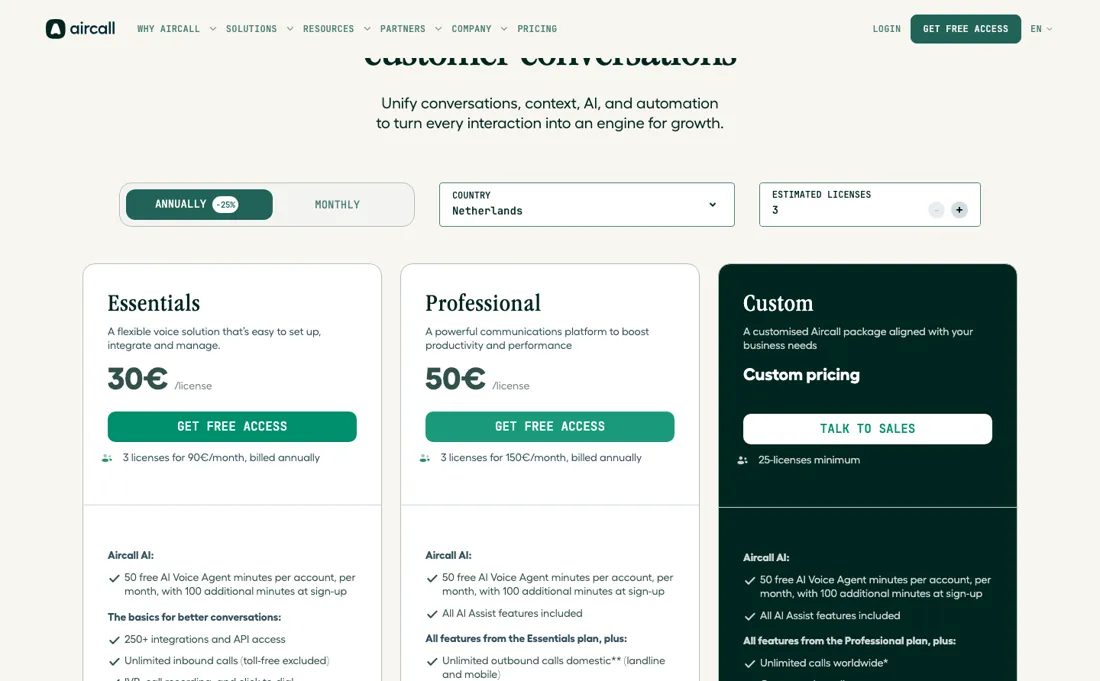
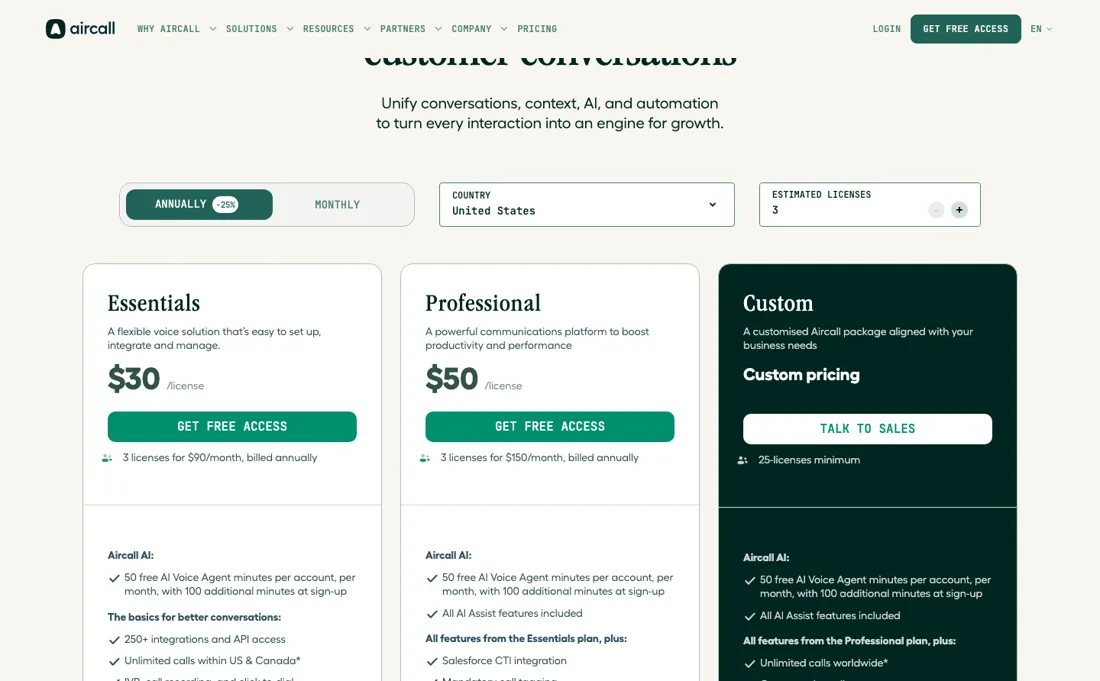
Aircall: prijsafdruk opnieuw gevangen vanuit de VS, plus de maandtarieven
De afdruk stond in euro's naast een dollartekst — precies de fout waar UENI
ons op aansprak. Opnieuw gevangen via een Amerikaanse uitgang (New York),
met Aircalls eigen landkeuze op United States: nu 14 dollarbedragen, 0 euro.

En de maandtarieven staan er nu bij, gelezen met de schakelaar om: $40 en $70
per licentie. Dat was niet af te leiden — 25% korting op $50 zou $66,67 geven,
maar Aircall vraagt $70, dus de korting is op Professional eerder 29%.
price_machine staat weer op een gelezen waarde (USD 40, maandelijks).

diff --git a/b2b/aircall-review/index.html b/b2b/aircall-review/index.html
@@ -13,7 +13,7 @@
 <link rel="icon" href="/favicon.svg" type="image/svg+xml">
 <link href="https://fonts.googleapis.com/css2?family=Inter:wght@400;500;600;700;800;900&display=swap" rel="stylesheet">
 <script type="application/ld+json">{"@context": "https://schema.org", "@type": "Article", "headline": "Aircall Review (2026): From $30/mo, Checked Aug 2026", "datePublished": "2026-06-30", "dateModified": "2026-08-29", "author": {"@type": "Person", "@id": "https://aibuildermarketplace.com/about/#daan", "name": "Daniel Haket"}, "publisher": {"@type": "Organization", "name": "AIBuilder Marketplace"}}</script>
-<script type="application/ld+json">{"@context": "https://schema.org", "@type": "SoftwareApplication", "name": "Aircall", "applicationCategory": "Communication & Voice", "operatingSystem": "Web", "description": "Cloud phone system for sales and support teams: call routing, analytics and CRM integrations. A three-licence minimum applies, so entry is effectively about $90/month; Essentials is roughly $30/user/month annual against $40 month-to-month.", "url": "https://aibuildermarketplace.com/b2b/aircall-review/", "sameAs": "https://aircall.io", "review": {"@type": "Review", "url": "https://aibuildermarketplace.com/b2b/aircall-review/", "author": {"@type": "Person", "name": "Daniel Haket", "@id": "https://aibuildermarketplace.com/about/#daan"}, "publisher": {"@type": "Organization", "name": "AIBuilder Marketplace"}}}</script>
+<script type="application/ld+json">{"@context": "https://schema.org", "@type": "SoftwareApplication", "name": "Aircall", "applicationCategory": "Communication & Voice", "operatingSystem": "Web", "description": "Cloud phone system for sales and support teams: call routing, analytics and CRM integrations. A three-licence minimum applies, so entry is effectively about $90/month; Essentials is roughly $30/user/month annual against $40 month-to-month.", "url": "https://aibuildermarketplace.com/b2b/aircall-review/", "sameAs": "https://aircall.io", "review": {"@type": "Review", "url": "https://aibuildermarketplace.com/b2b/aircall-review/", "author": {"@type": "Person", "name": "Daniel Haket", "@id": "https://aibuildermarketplace.com/about/#daan"}, "publisher": {"@type": "Organization", "name": "AIBuilder Marketplace"}}, "offers": {"@type": "Offer", "price": 40, "priceCurrency": "USD", "url": "https://aibuildermarketplace.com/b2b/aircall-review/", "description": "Essentials, per licence, billed monthly — $30 per licence is the annual rate. Read on the vendor's own pricing page on 2026-08-29."}}</script>
 <script type="application/ld+json">{"@context": "https://schema.org", "@type": "FAQPage", "mainEntity": [{"@type": "Question", "name": "What is the real entry price for Aircall?", "acceptedAnswer": {"@type": "Answer", "text": "Not the per-licence figure. Aircall requires three licences, so Essentials starts at €90 a month billed annually (€120 monthly) and Professional at €150 (€210 monthly), read on their own pricing page on 17 August 2026 from an EU address. A two-person team pays for three seats."}}, {"@type": "Question", "name": "Is there an Aircall discount code?", "acceptedAnswer": {"@type": "Answer", "text": "We have found none, and that is worth saying because it is one of the things people search for before buying. What the page does publish is the annual discount — €30 against €40 per licence on Essentials, €50 against €70 on Professional — which is a 25% to 29% saving for committing to a year. That, plus the 50 free AI Voice Agent minutes every account gets each month, is the whole of the public offer as we read it."}}, {"@type": "Question", "name": "What do the AI voice agents cost on top?", "acceptedAnswer": {"@type": "Answer", "text": "They are a separate meter from the seat. Every account gets 50 AI Voice Agent minutes a month free, with 100 extra at sign-up; after that it is €175 for 500 minutes or €725 for 2,500, custom bundles from €0.19 a minute above 10,000 minutes, or pay-as-you-go at €0.49 a minute (€0.39 over 2,500). Read on 17 August 2026. Budget these alongside the licences rather than assuming they are included."}}, {"@type": "Question", "name": "What should I weigh before buying Communication & Voice software?", "acceptedAnswer": {"@type": "Answer", "text": "Generally yes, since this category is built for it, but the details that bite are timezone handling, how per-seat cost scales as the team spreads, and whether numbers, routing or coverage exist in the countries your people actually sit in. Availability varies far more by country than the marketing pages suggest, so check your specific regions before committing."}}, {"@type": "Question", "name": "Is this a hands-on review of Aircall?", "acceptedAnswer": {"@type": "Answer", "text": "This is a researched assessment, not a hands-on test — where we've used a tool ourselves, we say so explicitly. We name what each tool is genuinely good and bad at, and we earn a commission only if you sign up, at no cost to you."}}]}</script>
 <script type="application/ld+json">{"@context": "https://schema.org", "@type": "BreadcrumbList", "itemListElement": [{"@type": "ListItem", "position": 1, "name": "Home", "item": "https://aibuildermarketplace.com"}, {"@type": "ListItem", "position": 2, "name": "Reviews", "item": "https://aibuildermarketplace.com/b2b/"}, {"@type": "ListItem", "position": 3, "name": "Aircall Review", "item": "https://aibuildermarketplace.com/b2b/aircall-review/"}]}</script><script type="application/ld+json">{"@context": "https://schema.org", "@type": "VideoObject", "name": "Aircall Review (2026) \u2014 honest pricing & who should skip it", "description": "Aircall: Essentials is $30 per license a month and Professional $50, both on annual billing. 'Unlimited calling' covers listed regions \u2014 check yours.", "thumbnailUrl": "https://i.ytimg.com/vi/RGbopX-3P2Q/hqdefault.jpg", "uploadDate": "2026-07-12T00:00:00+00:00", "contentUrl": "https://www.youtube.com/watch?v=RGbopX-3P2Q", "embedUrl": "https://www.youtube-nocookie.com/embed/RGbopX-3P2Q"}</script>
 <style>
@@ -90,7 +90,7 @@ h1{font-size:1.5rem}
 
 <h2 id="watch-the-2-minute-review">Watch the 2-minute review</h2><div style="position:relative;padding-top:56.25%;border-radius:14px;overflow:hidden;border:1px solid var(--border);margin:18px 0"><iframe src="https://www.youtube-nocookie.com/embed/RGbopX-3P2Q" title="Aircall review video" loading="lazy" style="position:absolute;inset:0;width:100%;height:100%;border:0" allow="accelerometer;encrypted-media;picture-in-picture" allowfullscreen></iframe></div><p style="font-size:.85rem;color:var(--muted)">Same honest take, in video form — from our <a href="https://www.youtube.com/@AIBuilderMarketplace" target="_blank" rel="noopener">YouTube channel</a>.</p><p style="font-size:.9rem;color:var(--muted);margin-top:10px">&#9889; Short on time? <a href="https://www.youtube.com/shorts/cU3WIZmuOxw" target="_blank" rel="noopener">Watch the 30-second verdict Short</a>.</p>
 <nav class="toc" aria-label="On this page" style="border:1px solid var(--border);border-radius:12px;padding:14px 18px;margin:20px 0;background:var(--card)"><div style="font-size:.72rem;letter-spacing:.09em;text-transform:uppercase;color:var(--muted);font-weight:800;margin-bottom:8px">On this page</div><ul style="margin:0;padding-left:19px;line-height:1.75;font-size:.92rem"><li><a href="#watch-the-2-minute-review">Watch the 2-minute review</a></li><li><a href="#pricing-2026">Pricing (2026)</a></li><li><a href="#what-the-pricing-page-doesn-t-say">What the pricing page doesn’t say</a></li><li><a href="#what-aircall-does">What Aircall does</a></li><li><a href="#what-buyers-report-about-aircall">What buyers report about Aircall</a></li><li><a href="#when-the-paid-plan-is-worth-it">When the paid plan is worth it</a></li><li><a href="#how-to-actually-use-aircall">How to actually use Aircall</a></li><li><a href="#common-aircall-setup-mistakes">Common Aircall setup mistakes</a></li><li><a href="#aircall-vs-cloudtalk-side-by-side">Aircall vs CloudTalk, side by side</a></li><li><a href="#frequently-asked-questions">Frequently asked questions</a></li></ul></nav>
-<h2 id="pricing-2026">Pricing (2026)</h2><p style="margin:-4px 0 12px"><span style="display:inline-block;font-size:.72rem;letter-spacing:.06em;text-transform:uppercase;font-weight:800;color:#22c55e;border:1px solid rgba(34,197,94,.4);background:rgba(34,197,94,.08);border-radius:999px;padding:3px 11px">&#10003; Pricing re-verified 26 Aug 2026</span></p><p>Essentials is $30 per license a month and Professional $50, both on annual billing, which the page marks as 25% off monthly; the same cards quote 3 licenses at $90 and $150 a month. Custom starts at 25 licenses. Aircall AI is not in those numbers: voice runs from $0.19 a minute with bundles at $175 for 500 minutes and $725 for 2,500, or $0.49 a minute pay-as-you-go dropping to $0.39 above 2,500.</p><p>AI conversations are $0.35 each, $0.29 after the first thousand, or bundled at $250 for 1,000 and $1,500 for 10,000. Smaller add-ons sit at $9, $10, $15, $30 and $49 per license a month, so the license fee is a floor rather than the bill. <em>Plans change — always verify the live price on their site.</em></p><p style="border-left:3px solid #f59e0b;padding-left:10px"><b>Correction after re-checking:</b> (29 aug 2026: de machineleesbare EUR-prijs is verwijderd. Die stamde van 17 aug via een Europese verbinding en sprak de dollartekst van 26 aug tegen, waardoor de pagina &#x27;price: 40, priceCurrency: EUR&#x27; publiceerde onder een $30-claim. Een nieuwe waarde komt pas uit een VS-lezing; omrekenen zou raden zijn.)</p>
+<h2 id="pricing-2026">Pricing (2026)</h2><p style="margin:-4px 0 12px"><span style="display:inline-block;font-size:.72rem;letter-spacing:.06em;text-transform:uppercase;font-weight:800;color:#22c55e;border:1px solid rgba(34,197,94,.4);background:rgba(34,197,94,.08);border-radius:999px;padding:3px 11px">&#10003; Pricing re-verified 29 Aug 2026</span></p><p>Essentials is $30 per license a month and Professional $50, both on annual billing, which the page marks as 25% off monthly. Flip that toggle and the monthly rates read $40 and $70 per license (3 licenses for $120 and $210), checked 29 August 2026 from a US connection. The discount is not uniform either: Essentials really is 25% off, but Professional lands closer to 29%, so price the plan you will actually buy rather than trusting the badge; the same cards quote 3 licenses at $90 and $150 a month.</p><p>Custom starts at 25 licenses. Aircall AI is not in those numbers: voice runs from $0.19 a minute with bundles at $175 for 500 minutes and $725 for 2,500, or $0.49 a minute pay-as-you-go dropping to $0.39 above 2,500. AI conversations are $0.35 each, $0.29 after the first thousand, or bundled at $250 for 1,000 and $1,500 for 10,000. Smaller add-ons sit at $9, $10, $15, $30 and $49 per license a month, so the license fee is a floor rather than the bill. <em>Plans change — always verify the live price on their site.</em></p>
 
 
 <h2 id="what-the-pricing-page-doesn-t-say">What the pricing page doesn’t say</h2><div class="receipt-block" style="display:flex;gap:18px;flex-wrap:wrap;margin:18px 0 26px;align-items:flex-start"><figure style="flex:1 1 340px;margin:0;min-width:0"><img src="/b2b/aircall-review/pricing-shot.webp" alt="Aircall pricing page" loading="lazy" style="width:100%;border:1px solid var(--border);border-radius:12px;display:block"><figcaption style="font-size:.8rem;color:var(--muted);margin-top:7px">Aircall’s own pricing page Aug 2026. Prices change &mdash; always check the live page.</figcaption></figure><div style="flex:1 1 300px;min-width:0;background:rgba(239,68,68,.06);border:1px solid rgba(239,68,68,.28);border-left:4px solid #ef4444;border-radius:12px;padding:17px 19px"><div style="font-size:.72rem;letter-spacing:.09em;text-transform:uppercase;color:#f87171;font-weight:800;margin-bottom:9px">The catch</div><p style="margin:0 0 11px;line-height:1.65">&#x27;Unlimited calling&#x27; covers listed regions — check yours — and AI features increasingly live in add-ons or higher tiers. It&#x27;s polished and integration-rich; just price the seats you&#x27;ll actually have, on the billing cycle you&#x27;ll actually choose.</p></div></div>
